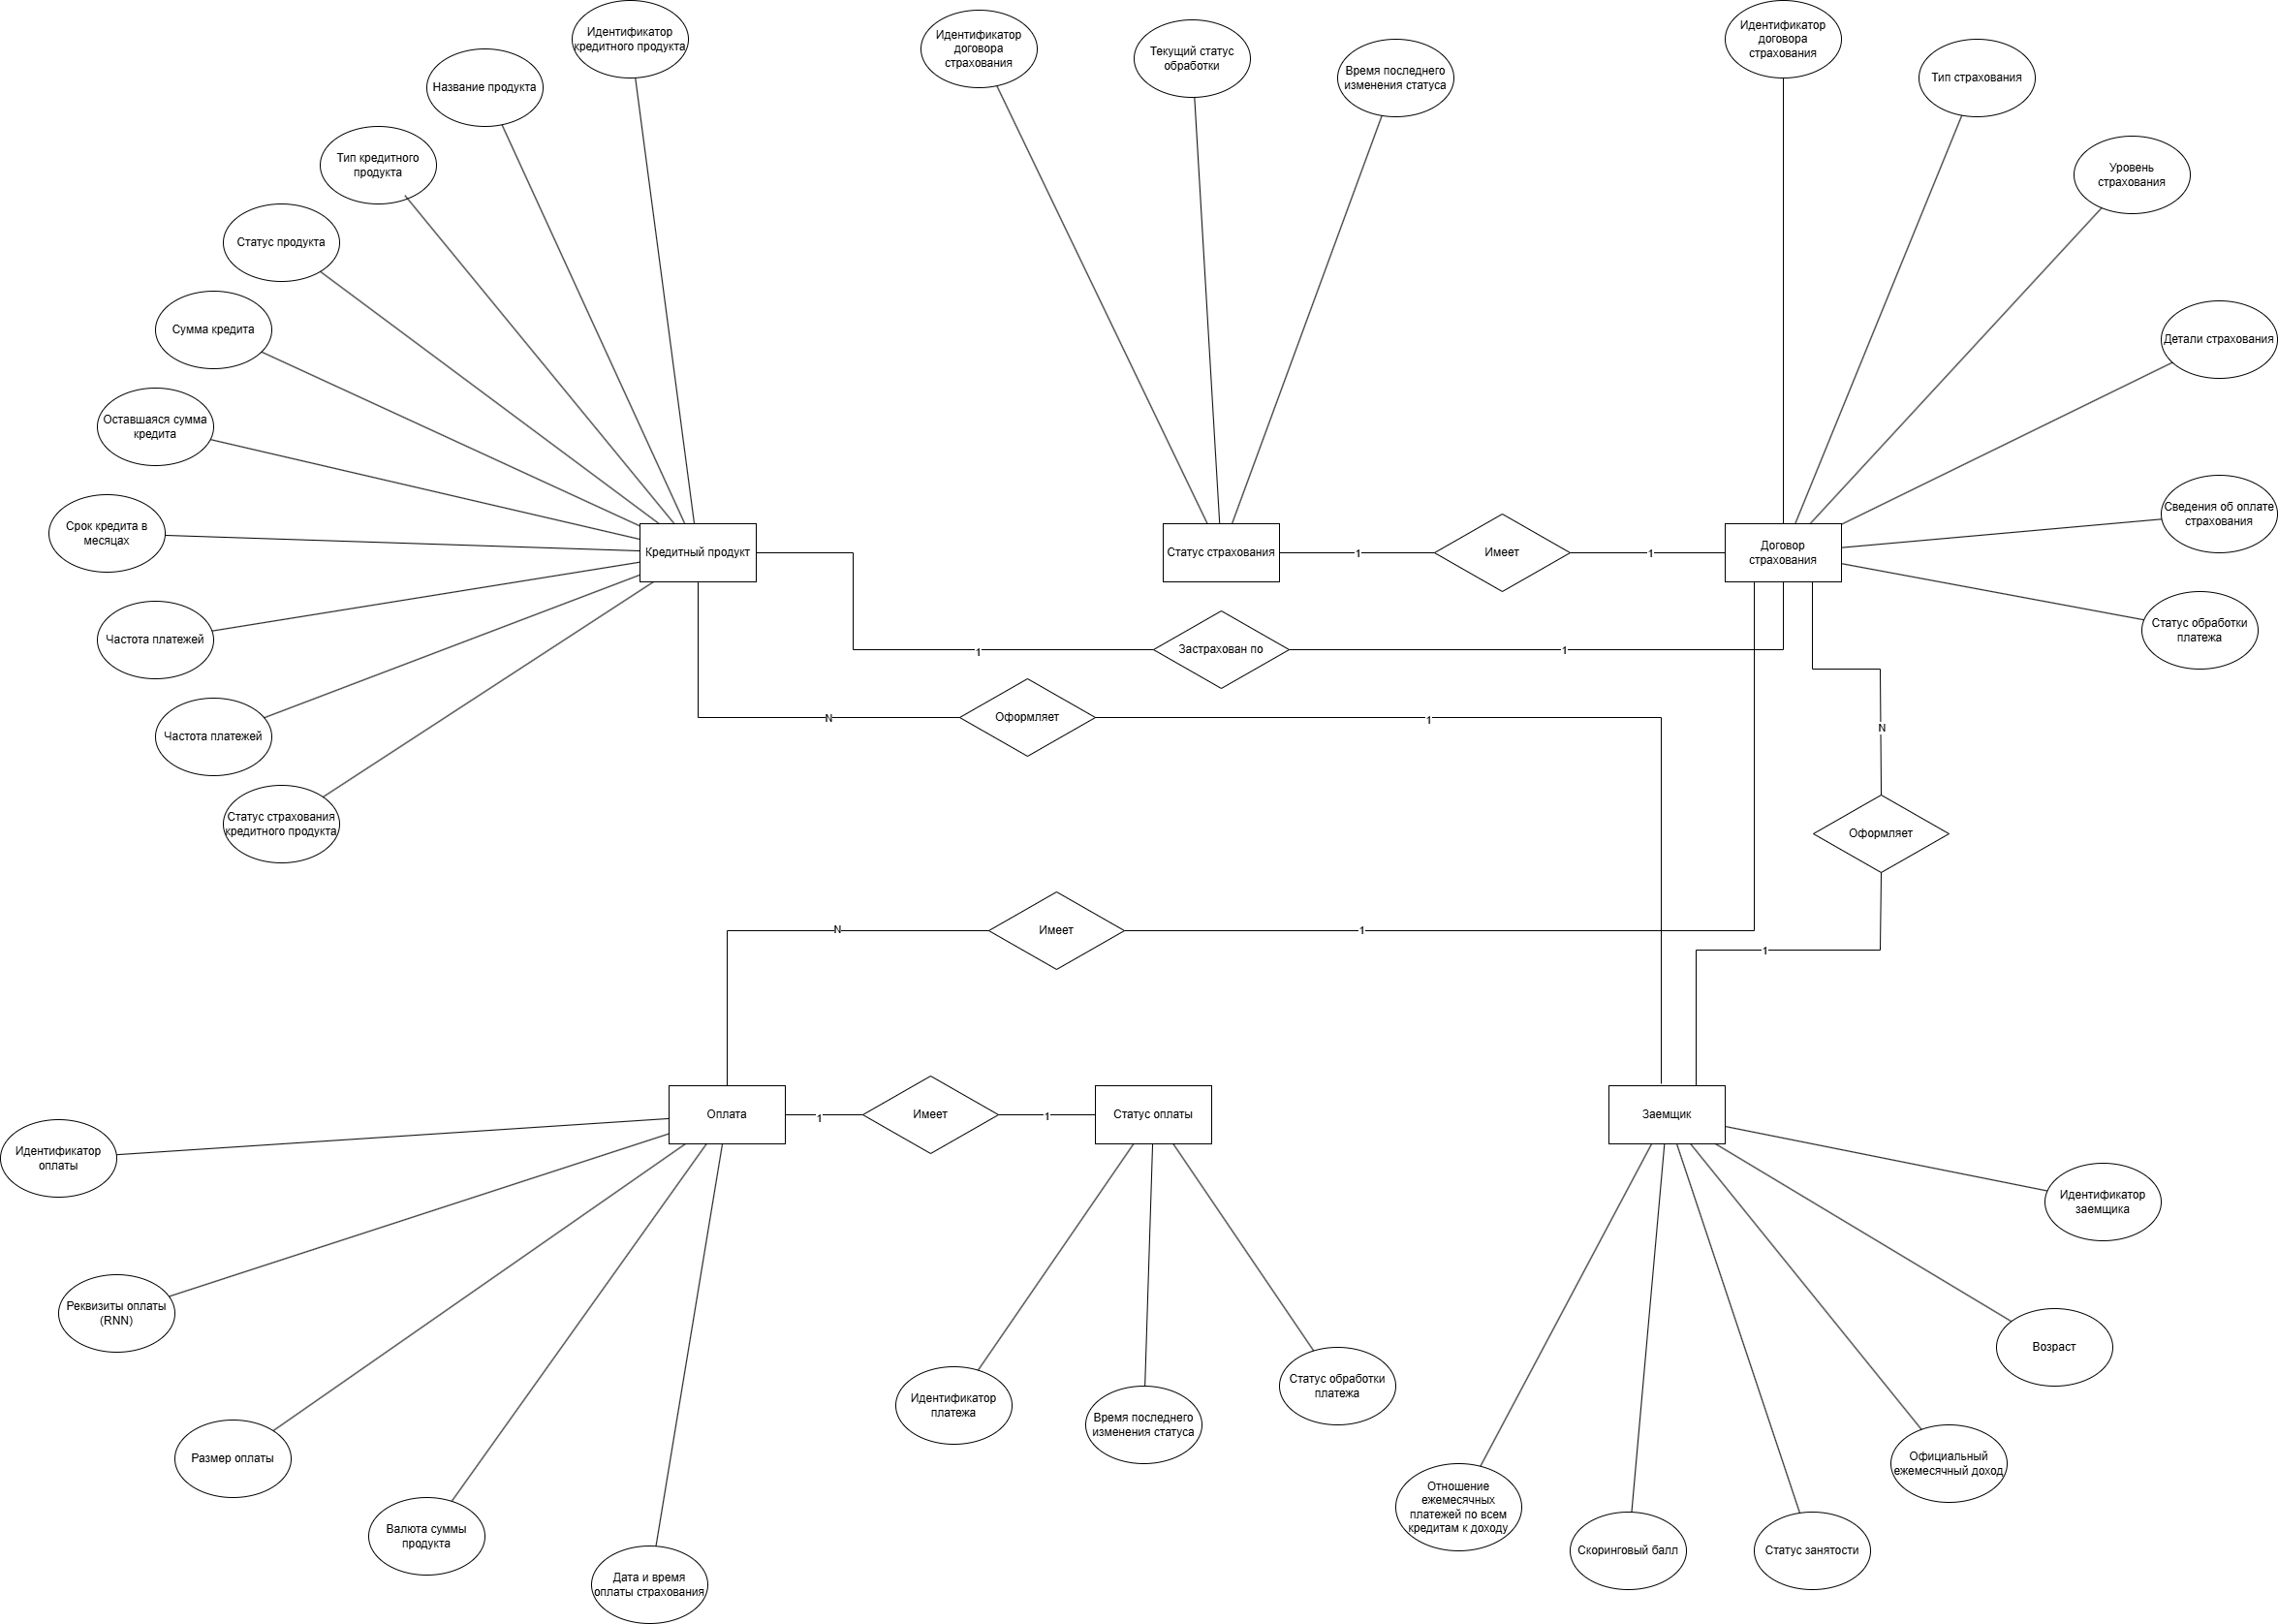
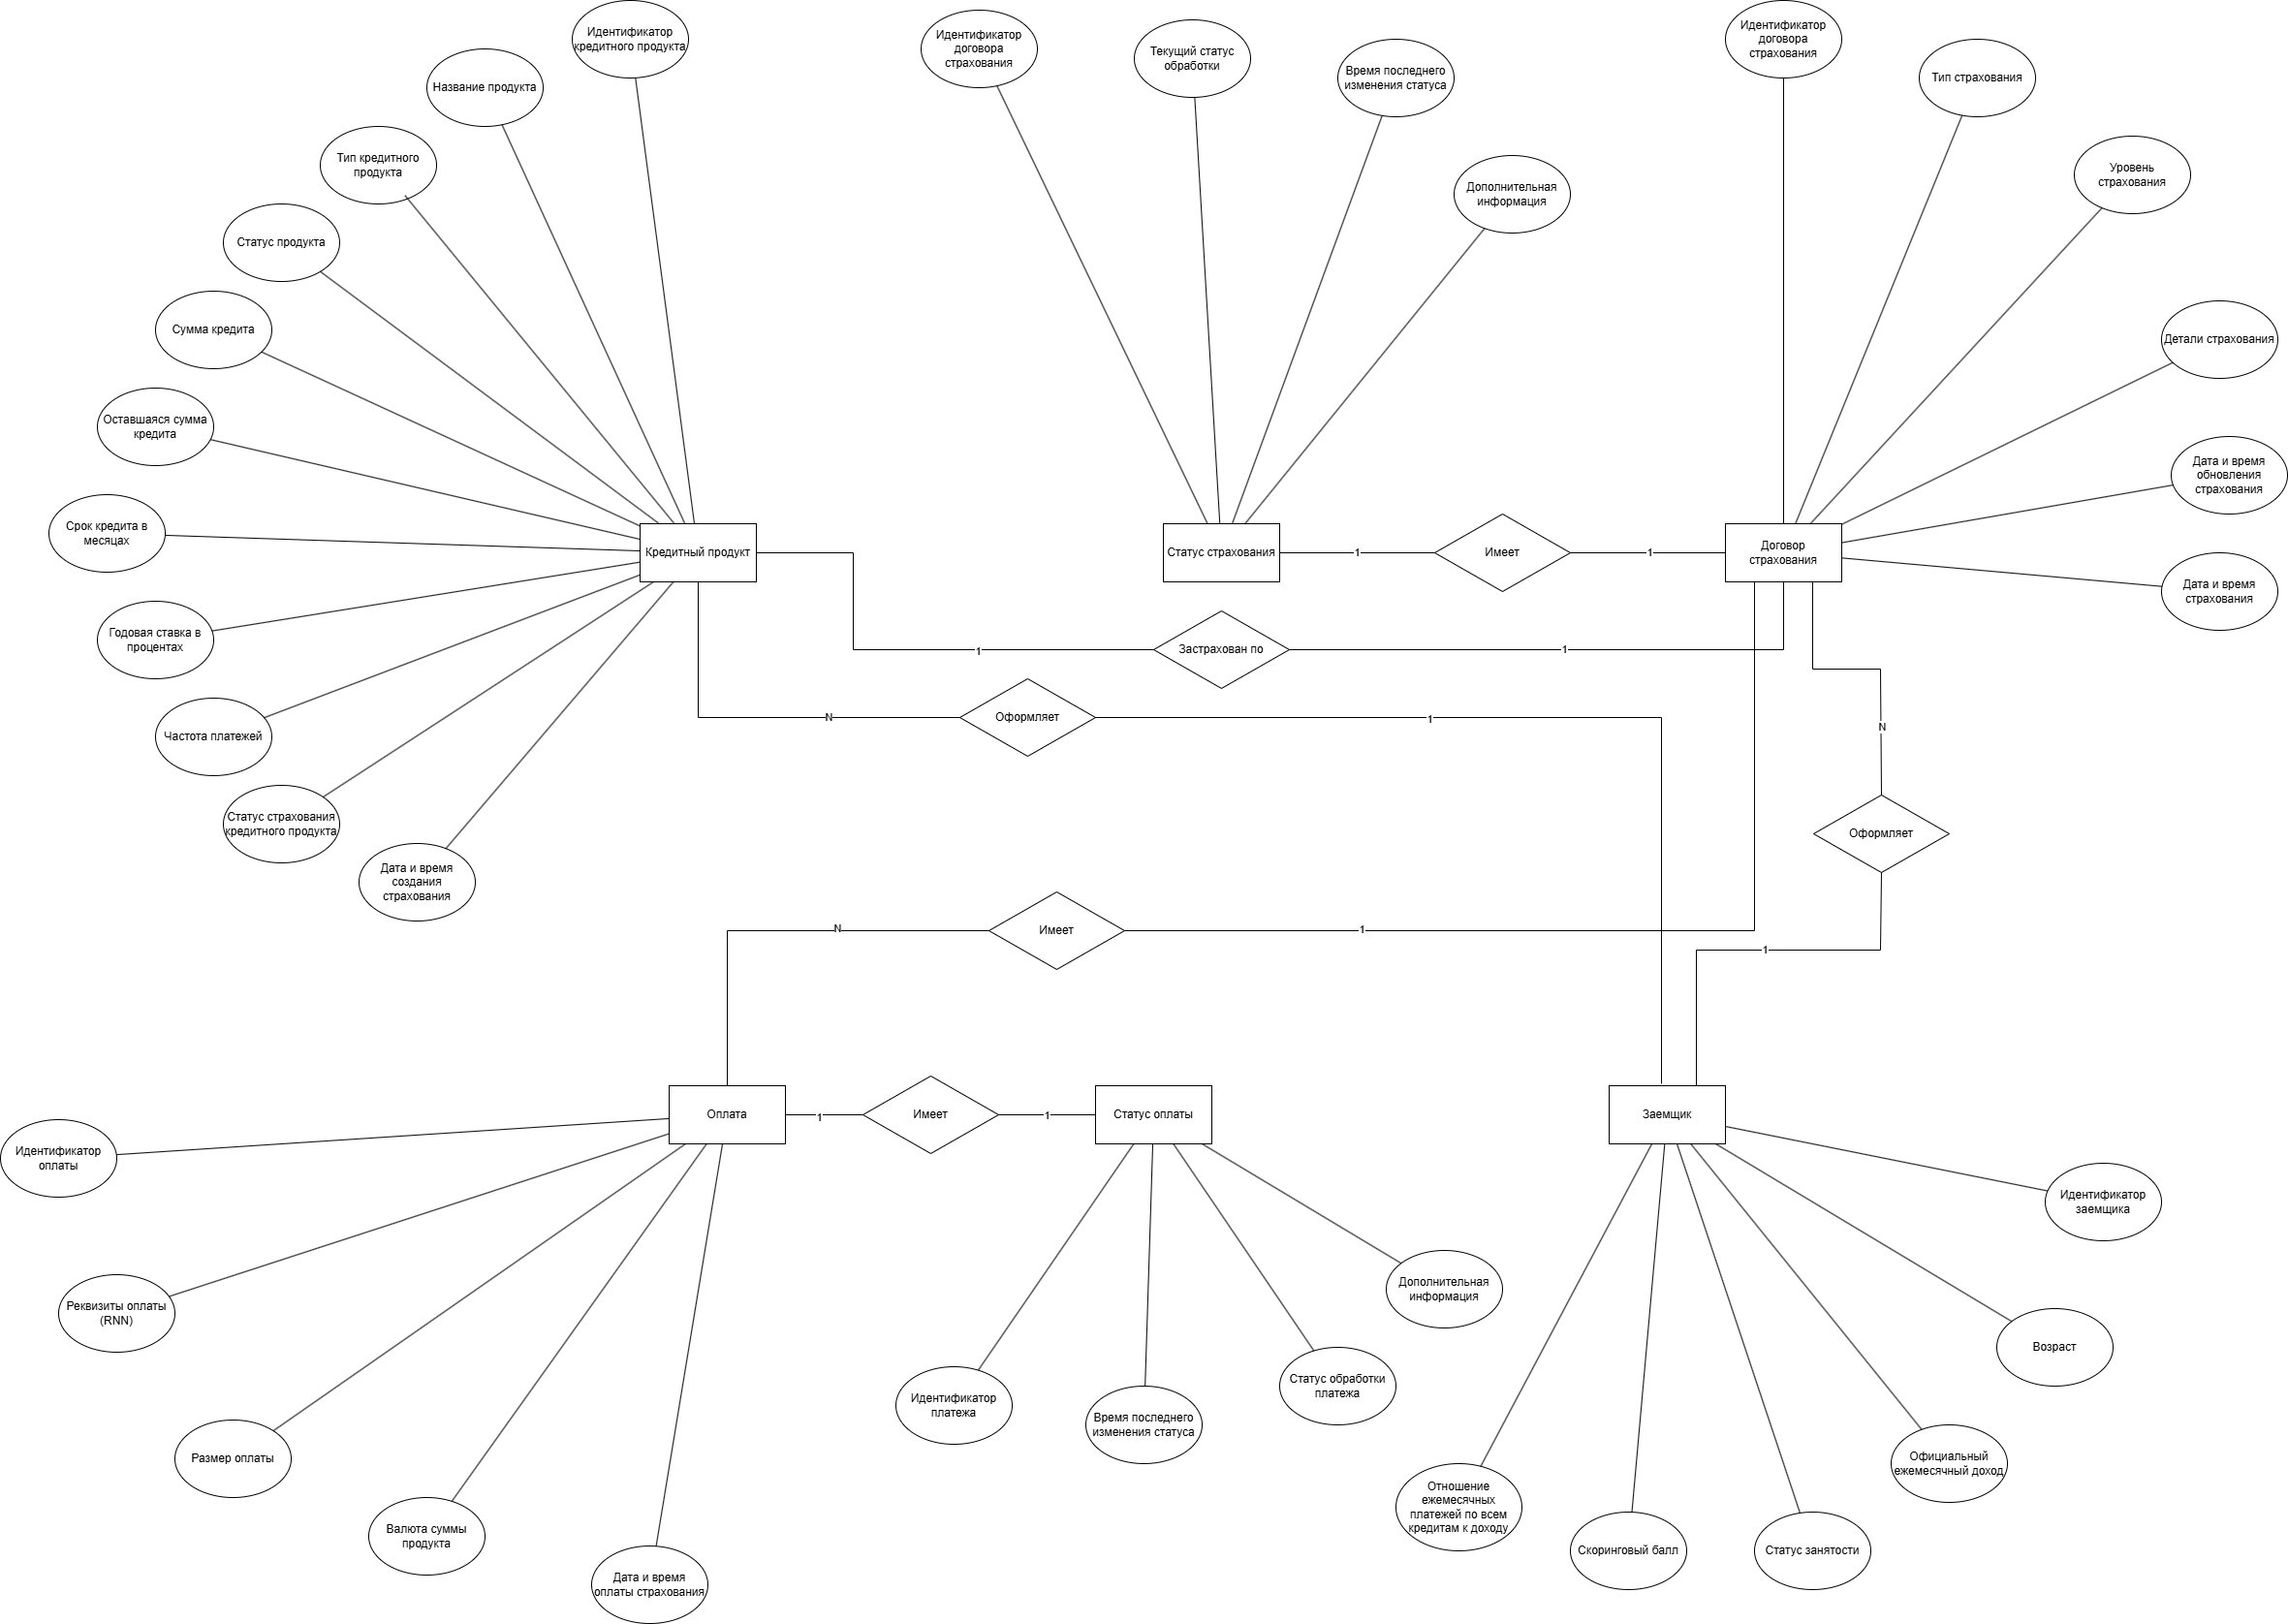
Made changes to diagrams, created Data_Model file

diff --git a/Data_Model.md b/Data_Model.md
@@ -1,0 +1,125 @@
+Описание концептуальной, логической и физической моделей данных
+=========================================
+
+Концептуальная модель данных в нотации Чена
+-----------------------------------------
+
+![](Chen_Diagram.drawio.png)
+
+Логическая/физическая модель данных в нотации Мартина
+-----------------------------------------
+
+![](Martin_Diagram.png)
+
+Данные таблиц
+-----------------------------------------
+borrower
+
+|Атрибут|Тип данных|Ограничения|Описание|
+|-|-|-|-|
+|borrow_id|UUID|PK|Идентификатор заемщика|
+|age|INTEGER|NOT NULL, CHECK (age>0, age<100)|Возраст заемщика|
+|monthly_income|NUMERIC (9,2)|NOT NULL, CHECK (monthly_income &ge; 0, monthly_income &le; 100000000)|Официальный ежемесячный доход|
+|employment_status|VARCHAR (12)|CHECK (employment_status IN (трудоустроен, самозанятый, безработный))|Статус занятости|
+|credit_score|INTEGER|NOT NULL, CHECK (credit_score &ge; 0, credit_score &le; 100)|Скоринговый балл|
+|debt_to_income|NUMERIC (5,2)|NOT NULL, CHECK (credit_score &ge; 0, credit_score &le; 100)|Отношение ежемесячных платежей по всем кредитам к доходу|
+
+credit_product
+
+|Атрибут|Тип данных|Ограничения|Описание|
+|-|-|-|-|
+|credit_product_id|UUID|PK|Идентификатор кредитного продукта|
+|borrow_id|UUID|FK, NOT NULL|Идентификатор заемщика|
+|product_name|VARCHAR (100)|NOT NULL|Название продукта|
+|product_type|VARCHAR (23)|CHECK (product_type IN (Кредит физическим лицам, Кредит юридическим лицам, Межбанковский кредит, Государственный кредит))|Тип кредитного продукта|
+|credit_product_status|VARCHAR (8)|CHECK (credit_product_status IN (активный, архивный))|Статус продукта|
+|loan_amount|NUMERIC (11,2)|NOT NULL, CHECK (loan_amount &gt; 0, loan_amount &le; 100000000)|Сумма кредита|
+|current_loan_amount|NUMERIC (11,2)|NOT NULL, CHECK (current_loan_amount &ge 0, current_loan_amount &le; 100000000)|Оставшаяся сумма кредита|
+|loan_length|INTEGER|NOT NULL, CHECK (loan_length &ge; 1, loan_length &le; 600)|Срок кредита в месяцах|
+|interest_rate|NUMERIC (5,2)|NOT NULL, CHECK (interest_rate &ge; 1, interest_rate &le; 100)|Годовая ставка в процентах|
+|payment_frequency|VARCHAR (10)|NOT NULL, CHECK (payment_frequency IN (ежемесячно, ежегодно))|Частота платежей|
+|insure_status|VARCHAR (14)|NOT NULL, CHECK (insure_status IN (нет страховки, есть страховка))|Статус страхования кредитного продукта|
+|loan_created_at|TIMESTAMP|NOT NULL|Дата и время создания страхования|
+
+insurance_contract
+
+|Атрибут|Тип данных|Ограничения|Описание|
+|-|-|-|-|
+|contract_id|UUID|PK|Идентификатор договора страхования|
+|credit_product_id|UUID|FK, NOT NULL|Идентификатор кредитного продукта|
+|borrow_id|UUID|FK, NOT NULL|Идентификатор заемщика|
+|insurance_type|VARCHAR (23)|CHECK (insurance_type IN (инверсивное страхование, страхование с залогом))|Тип страхования|
+|insurance_level|VARCHAR (19)|CHECK (insurance_level IN (инверсивное страхование, страхование с залогом))|Уровень страхования|
+|insurance_details|VARCHAR (255)|NOT NULL|Детали страхования|
+|created_at|TIMESTAMP|NOT NULL|Дата и время страхования|
+|updated_at|TIMESTAMP|updated_at > created_at|Дата и время обновления страхования|
+
+payment
+
+|Атрибут|Тип данных|Ограничения|Описание|
+|-|-|-|-|
+|payment_id|UUID|PK|Идентификатор оплаты|
+|contract_id|UUID|FK, NOT NULL|Идентификатор договора страхования|
+|payment_details|VARCHAR (12)|NOT NULL|Реквизиты оплаты (RNN)|
+|payment_sum|NUMERIC (9,2)|NOT NULL, CHECK (payment_sum &gt; 0, payment_sum &le; 1000000)|Размер оплаты|
+|currency|VARCHAR (6)|CHECK (currency IN (рубль, евро, доллар))|Валюта|
+|paid_at|TIMESTAMP|NOT NULL|Дата и время оплаты страхования|
+
+payment_status
+
+|Атрибут|Тип данных|Ограничения|Описание|
+|-|-|-|-|
+|payment_id|UUID|PK|Идентификатор оплаты|
+|status|VARCHAR (10)|CHECK (status IN (pending, processing, completed, failed))|Статус обработки платежа|
+|message|VARCHAR (255)|NOT NULL|Дополнительная информация|
+|updated_at|TIMESTAMP||Время последнего изменения статуса|
+
+insurance_status
+
+|Атрибут|Тип данных|Ограничения|Описание|
+|-|-|-|-|
+|contract_id|UUID|PK|Идентификатор договора страхования|
+|status|VARCHAR (10)|CHECK (status IN (pending, processing, completed, failed))|Текущий статус обработки|
+|message|VARCHAR (255)|NOT NULL|Дополнительная информация|
+|updated_at|TIMESTAMP||Время последнего изменения статуса|
+
+Class Diagram MongoDB
+-----------------------------------------
+
+![](Class_Diagram.png)
+
+DDL Scripts
+-----------------------------------------
+[DDL](Insurance_APP_DB.sql)
+
+DML Scripts
+-----------------------------------------
+[DML](DB_Examples.sql)
+
+JSON-Schema
+-----------------------------------------
+[JSON-Schema](MongoDB_Validation_Schema.json)
+
+JSON-Object
+-----------------------------------------
+[JSON-Object](MongoDB_Validation_Object.json)
+
+### Критерии приемки
+
+#### Процесс и контекст использования
+Применяется на этапе проектирования информационной системы для формирования структуры хранения данных в PostgreSQL и MongoDB.
+
+#### Цель создания
+Описать структуру данных, определить взаимосвязи между сущностями и правила организации их хранения.
+
+#### Что становится определено
+Определяются сущности, их атрибуты, взаимосвязи, ограничения целостности данных и структура документов в MongoDB.
+
+#### Пользователи артефакта
+Системные аналитики, разработчики и администраторы баз данных используют модель при разработке, внедрении и сопровождении базы данных.
+
+#### Использование в дальнейшем
+На основе разработанной модели создаются базы данных, реализуются запросы, API и бизнес-логика приложения.
+
+#### Последствия отсутствия
+Отсутствие модели может привести к ошибкам при проектировании базы данных, нарушению согласованности данных и увеличению сроков разработки.